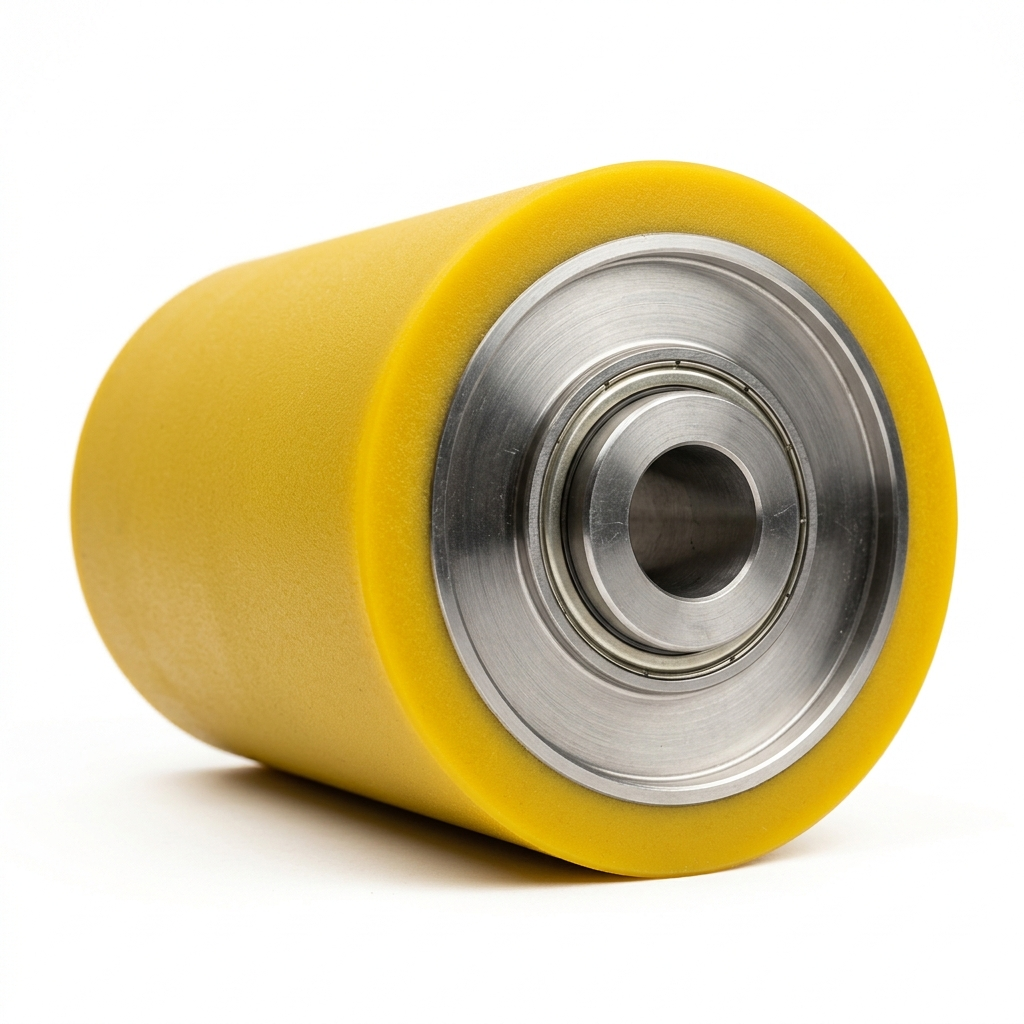
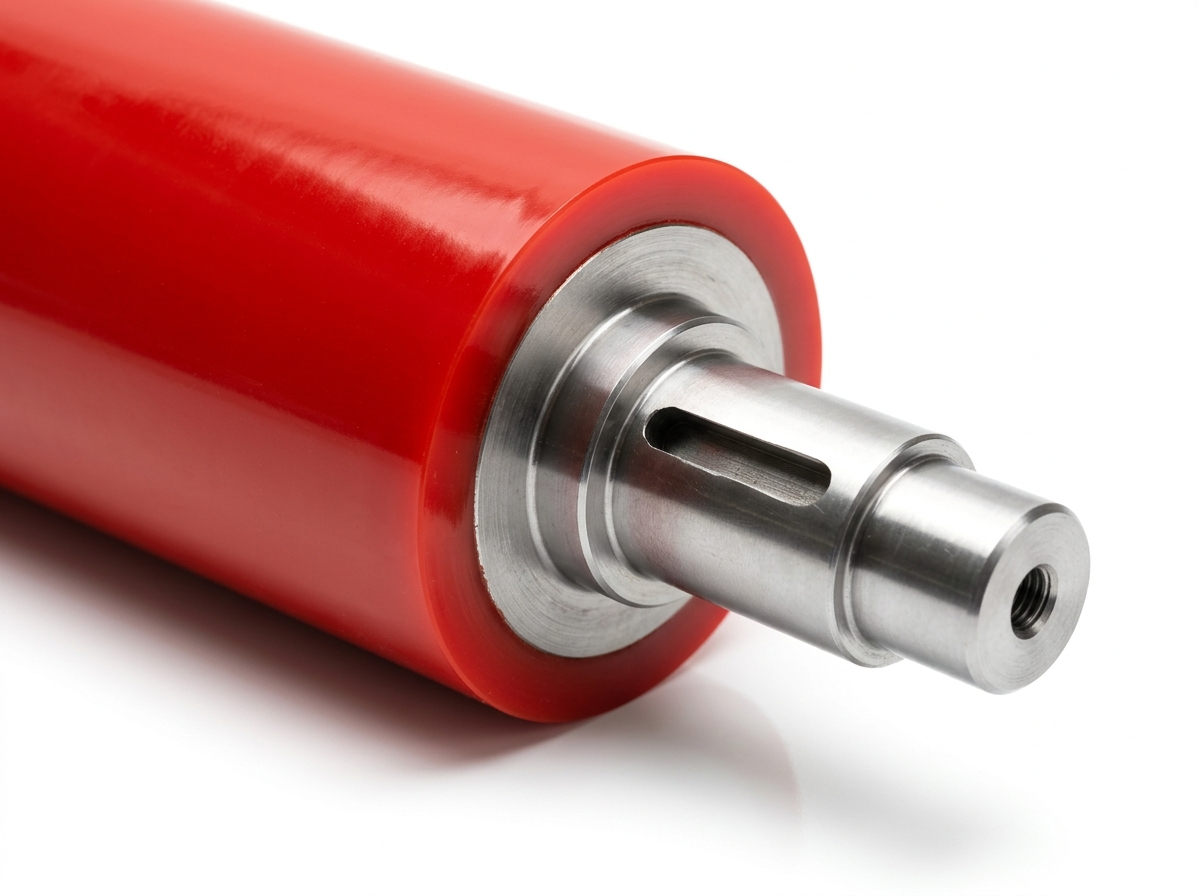
feat: update polyurethane coated roller with real red drive roller images and specs

diff --git a/src/main.jsx b/src/main.jsx
@@ -133,19 +133,20 @@ const products = [
     rating: "4.7",
     reviews: "14",
     views: [
-      { label: "Front View", src: "/pu-roller.jpg" },
-      { label: "Side View", src: "/pu-roller-side.jpg" }
+      { label: "Full Roller View", src: "/pu-roller.jpg" },
+      { label: "Drive Shaft & Keyway", src: "/pu-roller-side.jpg" }
     ],
-    description: "Heavy-duty industrial drive and guide rollers coated with high-performance polyurethane vulcanized directly onto machined steel cores. Provides superior traction, non-marking contact, chemical resistance, and high cut resistance for conveyors, steel mills, and automated processing lines.",
+    description: "Heavy-duty industrial drive and conveyor rollers coated with high-performance polyurethane vulcanized directly onto precision CNC-machined steel cores. Features precision-turned drive shaft journals with milled keyways, superior traction, non-marking contact, chemical resistance, and extreme cut resistance for conveyors, mining equipment, steel mills, and automated production lines.",
     specs: [
-      { label: "Coating Material", value: "Thermoset Polyurethane Elastomer" },
-      { label: "Core Material", value: "EN8 / Mild Steel / Stainless Steel" },
-      { label: "Hardness Range", value: "65° Shore A to 75° Shore D" },
-      { label: "Diameter", value: "50 mm to 450 mm (Custom Built)" },
+      { label: "Coating Material", value: "Thermoset Cast Polyurethane Elastomer" },
+      { label: "Core & Shaft Material", value: "EN8 / EN24 / Mild Steel / Stainless Steel" },
+      { label: "Color", value: "Industrial Red / Custom Durometer Colors" },
+      { label: "Hardness Range", value: "70° Shore A to 95° Shore A / 75° Shore D" },
+      { label: "Roller Diameter", value: "50 mm to 450 mm (Custom Built)" },
       { label: "Face Length", value: "100 mm to 2500 mm" },
-      { label: "Bearing Fitment", value: "Machined Bearing Housing with Keyway" },
-      { label: "Usage / Application", value: "Conveyor Systems, Printing, Packaging, Steel Slitting" },
-      { label: "Country of Origin", value: "Made in India" }
+      { label: "Shaft Configuration", value: "CNC Stepped Journal with Milled Keyway & Thread" },
+      { label: "Usage / Application", value: "Belt Conveyors, Mining, Material Handling, Printing & Steel Slitting" },
+      { label: "Country of Origin", value: "Made in India (Hyderabad, Telangana)" }
     ],
     features: [
       "Chemical bonding between PU and steel core prevents delamination under load",
